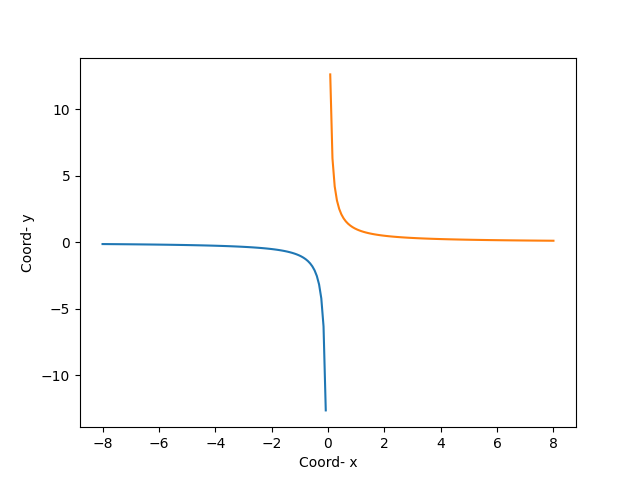
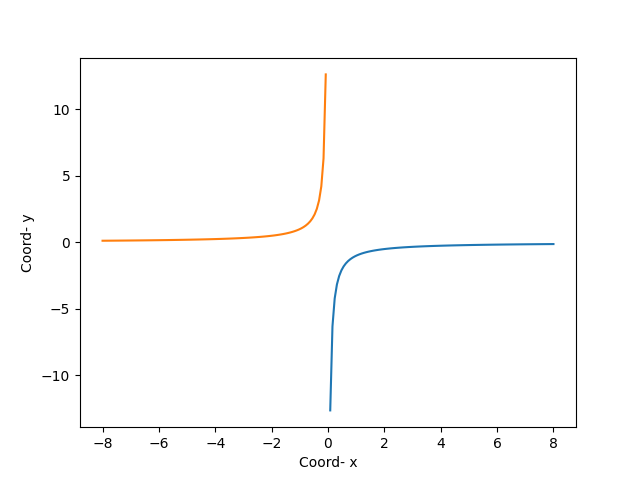
лаба6

diff --git a/task_2.py b/task_2.py
@@ -1,22 +1,24 @@
 import matplotlib.pyplot as plt
 import numpy as np
 
+
+
 N= float()
 
-def hyperbala_plotter(x_max,x_min,N):
+def hyperbala_plotter(x_min,x_max,N):
     x = np.linspace(0, x_max, N+1)
-    y = 1/x
+    y = -1/x
 
     plt.plot(x,y, label = "hyperbala_plotter")
 
-    x = np.linspace(x_max,0, N+1)
-
-    x = np.linspace(x_min,0, N+1)
-    y = 1/x
-
+    x = np.linspace(x_max, 0, N+1)
+    x = np.linspace(x_min, 0, N+1)
+    y = -1/x
+    
     plt.plot(x,y)
     plt.xlabel("Coord- x")
     plt.ylabel("Coord- y")
+
     
     
 

diff --git a/task_42.py b/task_42.py
@@ -9,7 +9,7 @@ def polar_sist(r, phi):
 
 
 
-phi = np.linspace(0, 8 * np.pi, 800) #Углы от 0 до 8π
+phi = np.linspace(0, 8 * np.pi, 800) 
 r = phi /8 
 x, y = polar_sist(r, phi)
 plt.plot(x, y, label='Архимедова спираль')

diff --git a/task_44.py b/task_44.py
@@ -22,3 +22,6 @@ plt.legend()
 plt.grid(True)
 
 plt.savefig('fig_44.png')
+
+
+    
